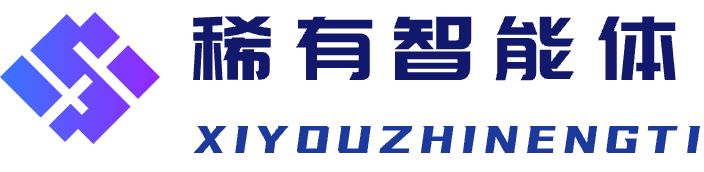
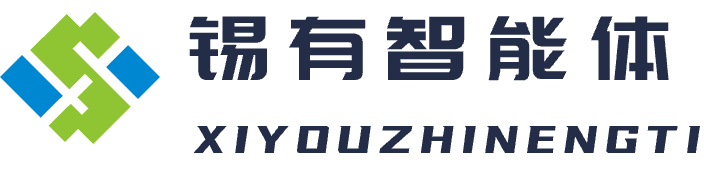
前端代码5

diff --git a/ui/src/views/customerHome/index.vue b/ui/src/views/customerHome/index.vue
@@ -24,8 +24,8 @@
     style="position: absolute; right : 52.5% ;top : 32%;width: 19%; height: 19%; " ></div>
     <div style="transform: translateX(10%); margin-top: 19%">
       <div style="width: 50%; height: 50%">
-        <div style="font-size: 20px;font-weight: bold"> 智能公文写作</div>
-        <div style="font-size: 10px"> 智能公文辅助写作平台</div>
+        <div style="font-size: 20px;font-weight: bold"> 锡有智文</div>
+        <div style="font-size: 10px"> 锡有智文辅助写作平台</div>
       </div>
     </div>
     <div style="transform: translateX(30%); margin-top: -3%">
@@ -304,14 +304,14 @@ const handleSelect = (index: string) => {
 
     background-position:
       //  center center, /* 图2右上角偏移 */
-        right 94% top 50%, /* 图2右上角偏移 */
+        right 1420px top 10px, /* 图2右上角偏移 */
         center center; /* 图1居中 */
 
 
     /* 分别控制每张图的尺寸 */
     background-size:
       // 423px 510px,   /* 图2宽度100px */
-       8% 70%,  /* 图2宽度100px */
+       150px 40px,  /* 图2宽度100px */
        cover;
 
 

diff --git a/ui/src/layout/components/app-header/index.vue b/ui/src/layout/components/app-header/index.vue
@@ -35,10 +35,10 @@ const isDefaultTheme = computed(() => {
 .app-header::before {
   content: "";
   position: absolute;
-  //top: 0%; /* 垂直居中 */
+  top: 5px; /* 垂直居中 */
   //left: 20px; /* 距离左侧 20px */
   transform: translateY(-50%); /* 微调垂直居中 */
-  width: 500px; /* 图片宽度 */
+  width: 480px; /* 图片宽度 */
   height: 400px; /* 图片高度 */
   background: url('@/assets/homeicons/appliction-tb.png') no-repeat 20% 57% / 30% 10%; /* 图片路径 */
   pointer-events: none; /* 防止图片阻挡点击事件 */

diff --git a/ui/src/components/login-layout-customer/index.vue b/ui/src/components/login-layout-customer/index.vue
@@ -119,14 +119,14 @@ const loginImage = computed(() => {
 
     background-position:
        // right 230px top 170px, /* 图2右上角偏移 */
-        right 800px top 280px, /* 图2右上角偏移 */
+        right 800px top 220px, /* 图2右上角偏移 */
         center center; /* 图1居中 */
 
 
     /* 分别控制每张图的尺寸 */
     background-size:
      //  423px 510px,   /* 图2宽度100px */
-       500px 300px,   /* 图2宽度100px */
+       490px 400px,   /* 图2宽度100px */
        cover;
 
 
